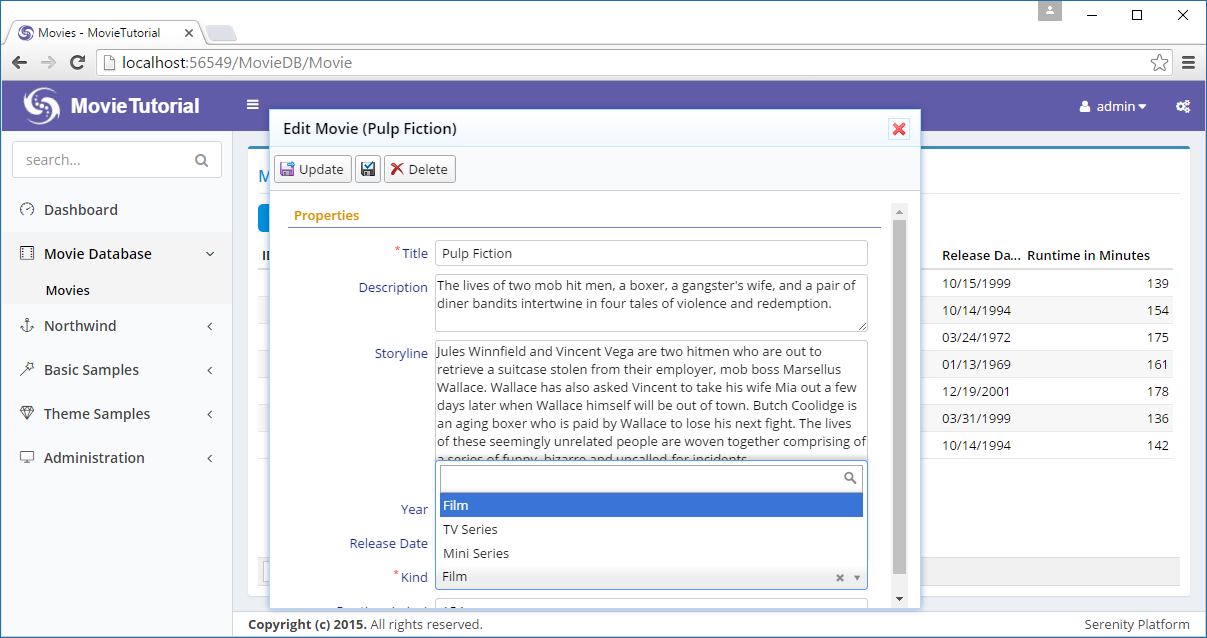
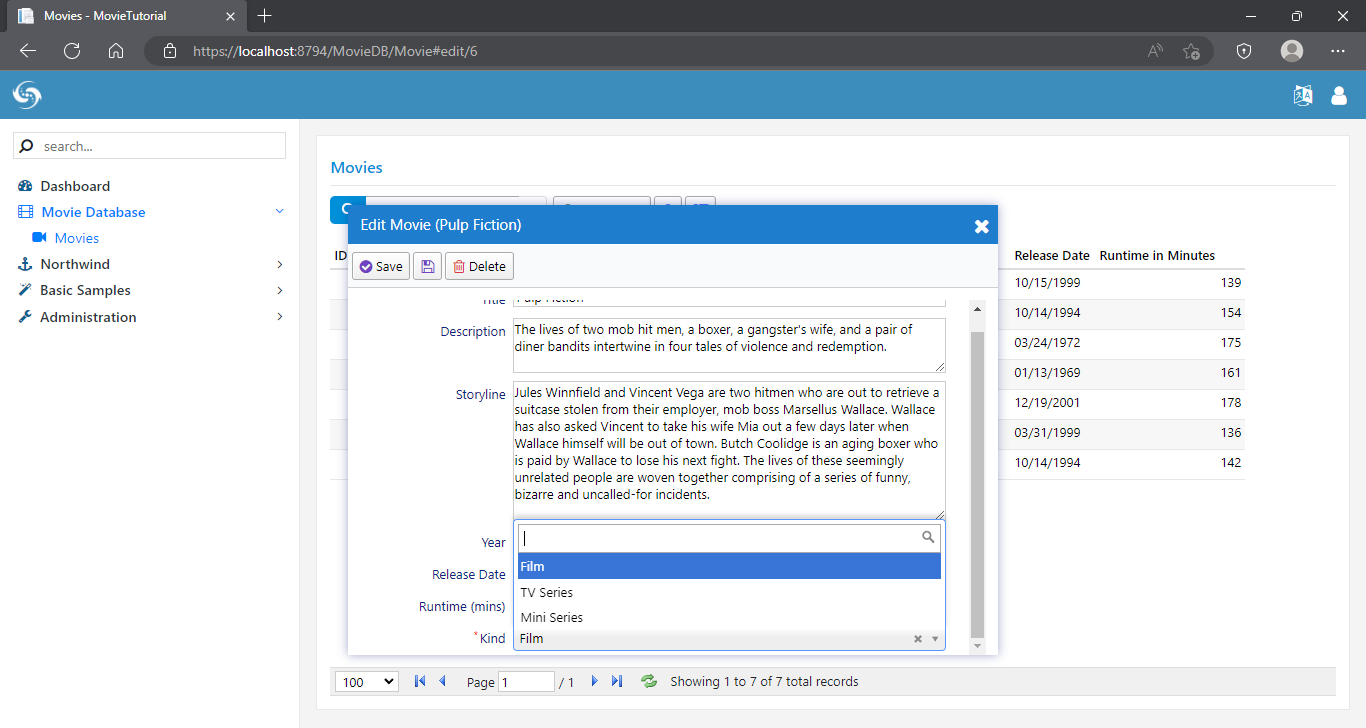
update adding_a_movie_kind_field

diff --git a/tutorials/movies/adding_a_movie_kind_field.md b/tutorials/movies/adding_a_movie_kind_field.md
@@ -6,25 +6,21 @@ As we didn't add it while creating the Movie table, now we'll write another migr
 
 > Don't modify existing migrations, they won't run again.
 
-Create another migration file under *Migrations/DefaultDB/ DefaultDB_20160519_145500_MovieKind.cs*:
+Create another migration file under *Migrations/DefaultDB/ DefaultDB_20221114_182500_MovieKind.cs*:
 
 ```cs
 using FluentMigrator;
 
 namespace MovieTutorial.Migrations.DefaultDB
 {
-    [Migration(20160519_145500)]
-    public class DefaultDB_20160519_145500_MovieKind : Migration
+    [Migration(20221114_182500)]
+    public class DefaultDB_20221114_182500_MovieKind : AutoReversingMigration
     {
         public override void Up()
         {
             Alter.Table("Movie").InSchema("mov")
                 .AddColumn("Kind").AsInt32().NotNullable()
                     .WithDefaultValue(1);
-        }
-
-        public override void Down()
-        {
         }
     }
 }
@@ -70,19 +66,19 @@ public Int32? Runtime
 [DisplayName("Kind"), NotNull]
 public MovieKind? Kind
 {
-    get => (MovieKind?)fields.Kind[this];
-    set => fields.Kind[this] = (Int32?)value;
+    get => fields.Kind[this];
+    set => fields.Kind[this] = value;
 }
 ```
 
-We also need to declare a Int32Field object which is required for Serenity entity system. On the bottom of MovieRow.cs locate *RowFields* class and modify it to add *Kind* field after the *Runtime* field:
+We also need to declare a EnumField<MovieKind> object which is required for Serenity entity system. On the bottom of MovieRow.cs locate *RowFields* class and modify it to add *Kind* field after the *Runtime* field:
 
 ```cs
 public class RowFields : RowFieldsBase
 {
     // ...
     public Int32Field Runtime;
-    public Int32Field Kind;
+    public EnumField<MovieKind> Kind;
 }
 ```
 
@@ -143,8 +139,8 @@ To add a default value for *Kind* property, add a *DefaultValue* attribute on _M
 [DisplayName("Kind"), NotNull, DefaultValue(MovieKind.Film)]
 public MovieKind? Kind
 {
-    get => (MovieKind?)fields.Kind[this];
-    set => fields.Kind[this] = (Int32?)value;
+    get => fields.Kind[this];
+    set => fields.Kind[this] = value;
 }
 ```
 
